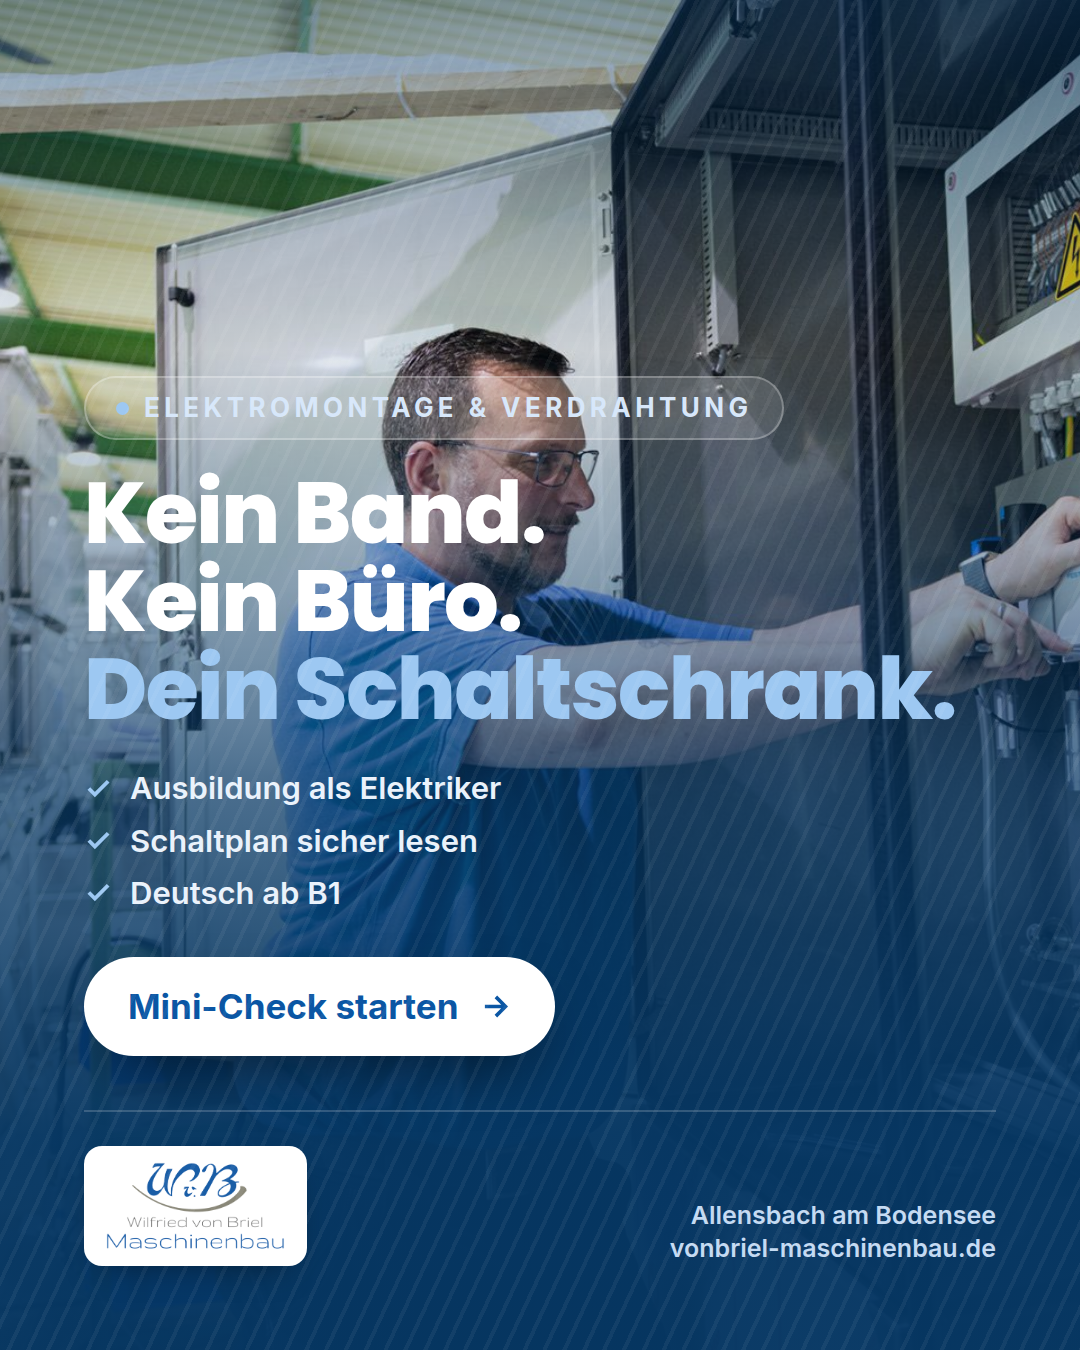
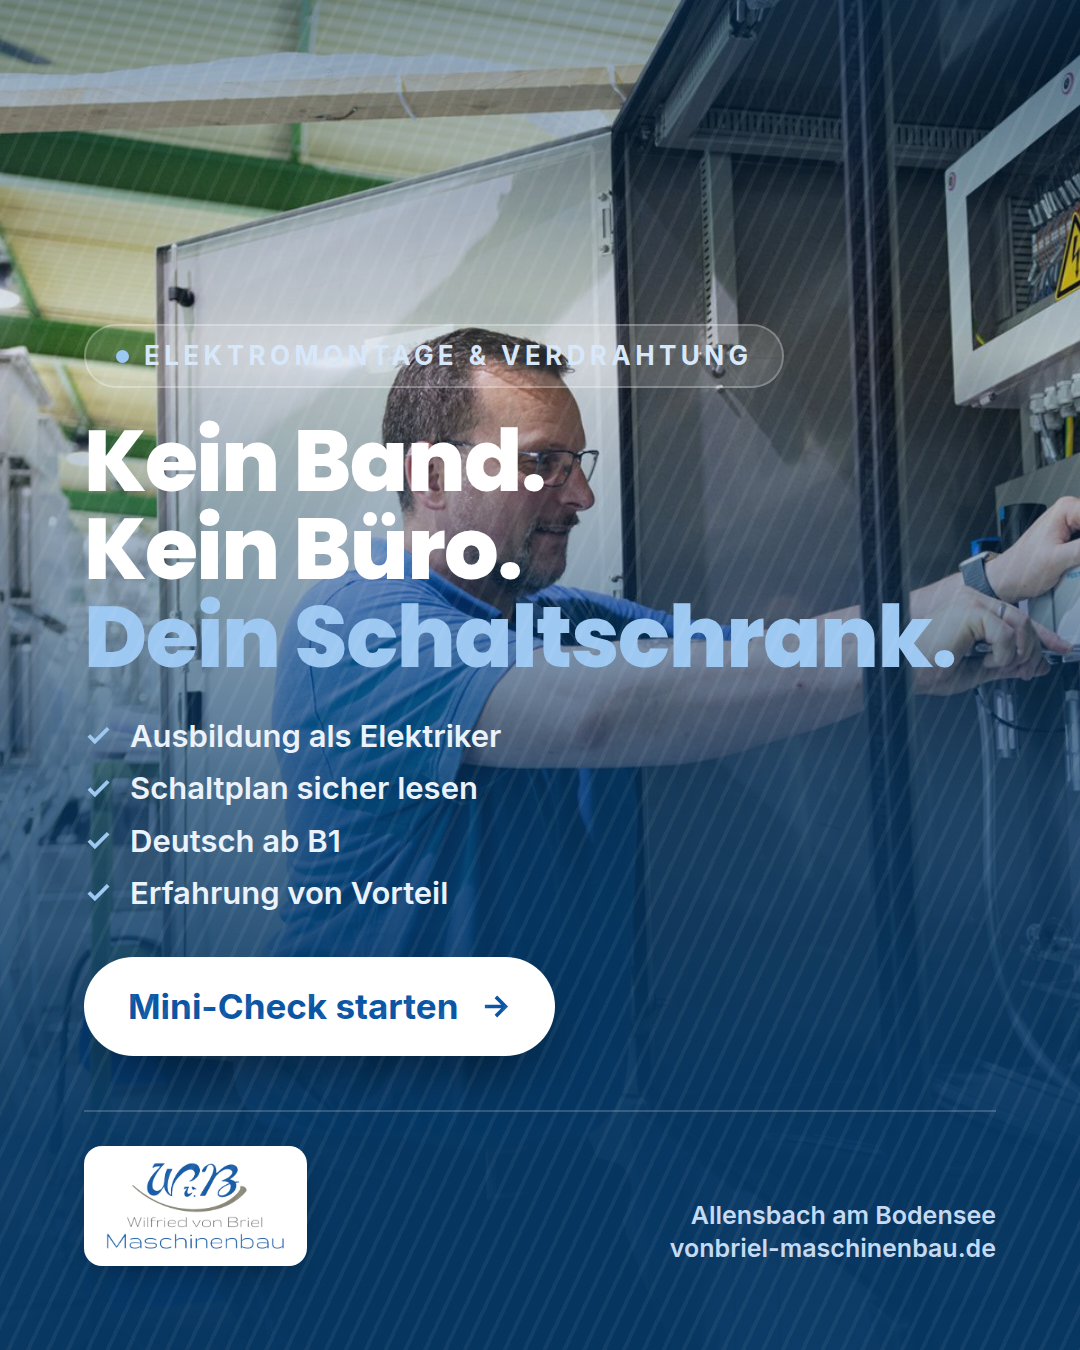
Erfahrung sichtbar machen, nicht nur abfragen
Frage 4 nach der Montage-Erfahrung zaehlt seit dem Punkte-Filter mit,
stand aber nirgends bei den angezeigten Kriterien. Jetzt erscheint sie
ueberall dort, wo die anderen drei stehen:

- Creative "kein-band-kein-buero": vierte Zeile "Erfahrung von Vorteil"
  (alle zehn Motive neu gerendert, keine Ueberlaeufe)
- Landingpage: der Hinweis unter dem CTA nennt jetzt alle vier Themen
  des Mini-Checks, die Profil-Zeile ist praeziser formuliert
- Werbetexte: die Voraussetzungs-Aufzaehlungen fuehren die Erfahrung mit,
  jeweils als "von Vorteil, kein Muss"

Die Formulierung bleibt korrekt: Fehlende Erfahrung allein fuehrt zu
keiner Absage, sie kostet nur einen Punkt.

Alle drei Testlaeufe (Payload, Filterlogik, Funnel) bei 0 Fehlern.

Claude-Session: https://claude.ai/code/session_01UjkRFnuUZ2mhEfYm4W489Y

Changed region(s): [[0.0611, 0.2178, 0.8861, 0.6844]]

diff --git a/index.html b/index.html
@@ -1058,7 +1058,7 @@ ul, ol { margin: 0; padding: 0; list-style: none; }
           Passt zu dir? Mini-Check starten
           <svg viewBox="0 0 24 24" width="18" height="18" fill="none" stroke="currentColor" stroke-width="2.5"><path d="M5 12h14M13 5l7 7-7 7"/></svg>
         </a>
-        <span class="cols-cta__hint">4 Fragen vorab – danach wissen wir beide, ob es passt.</span>
+        <span class="cols-cta__hint">4 Fragen vorab: Ausbildung, Schaltplan, Deutsch und deine Erfahrung – danach wissen wir beide, ob es passt.</span>
       </div>
     </div>
   </section>
@@ -1206,7 +1206,7 @@ const JOBS = {
       "Abgeschlossene Ausbildung als Industrieelektriker/in, Elektroniker/in für Betriebstechnik, Elektroinstallateur/in oder Mechatroniker/in",
       "Schaltpläne lesen und verstehen – und danach sauber verdrahten",
       "Deutschkenntnisse mindestens auf Niveau B1 (Absprachen im Team & Arbeitssicherheit)",
-      "Erfahrung in Elektromontage oder Schaltschrankbau ist ein Plus, kein Muss",
+      "Erfahrung in Elektromontage oder Schaltschrankbau – von Vorteil, aber kein Muss",
       "Sorgfältige, saubere und selbstständige Arbeitsweise",
       "Zuverlässigkeit und Freude an der Arbeit im Team",
     ],

diff --git a/creatives/index.html b/creatives/index.html
@@ -281,6 +281,7 @@ const CONCEPTS = [
         <li>${CHECK} Ausbildung als Elektriker</li>
         <li>${CHECK} Schaltplan sicher lesen</li>
         <li>${CHECK} Deutsch ab B1</li>
+        <li>${CHECK} Erfahrung von Vorteil</li>
       </ul>
       <span class="cta">Mini-Check starten ${ARROW}</span>`,
   },

diff --git a/creatives/WERBETEXTE.md b/creatives/WERBETEXTE.md
@@ -73,7 +73,7 @@ die schwächsten abschalten statt früher einzugreifen.
 >
 > Bei uns verdrahtest du Maschinen, statt Kabel zu sortieren: Schaltschränke bestücken, Sensoren und Antriebe anschließen, prüfen, fertig. Maschinenbau in Allensbach am Bodensee.
 >
-> Ausbildung als Elektriker, Schaltplan sicher, Deutsch ab B1 – mehr braucht es nicht für den ersten Schritt.
+> Ausbildung als Elektriker, Schaltplan sicher, Deutsch ab B1 – und wenn du schon montiert hast, umso besser.
 >
 > 60 Sekunden, 4 Fragen. Deinen Lebenslauf hängst du direkt an oder reichst ihn nach.
 
@@ -92,7 +92,7 @@ die schwächsten abschalten statt früher einzugreifen.
 >
 > Wilfried von Briel Maschinenbau in Allensbach besetzt eine Stelle in Elektromontage und Verdrahtung. Feste Anstellung in Vollzeit, geregelte Arbeitszeiten, Einarbeitung durch Kollegen, die das seit Jahren machen.
 >
-> Voraussetzungen: abgeschlossene Ausbildung als Elektriker, Schaltpläne lesen und verstehen, Deutsch ab Niveau B1.
+> Voraussetzungen: abgeschlossene Ausbildung als Elektriker, Schaltpläne lesen und verstehen, Deutsch ab Niveau B1. Erfahrung in der Elektromontage ist von Vorteil, aber kein Muss.
 >
 > Der Mini-Check dauert eine Minute – danach melden wir uns innerhalb von 2 Werktagen.
 
